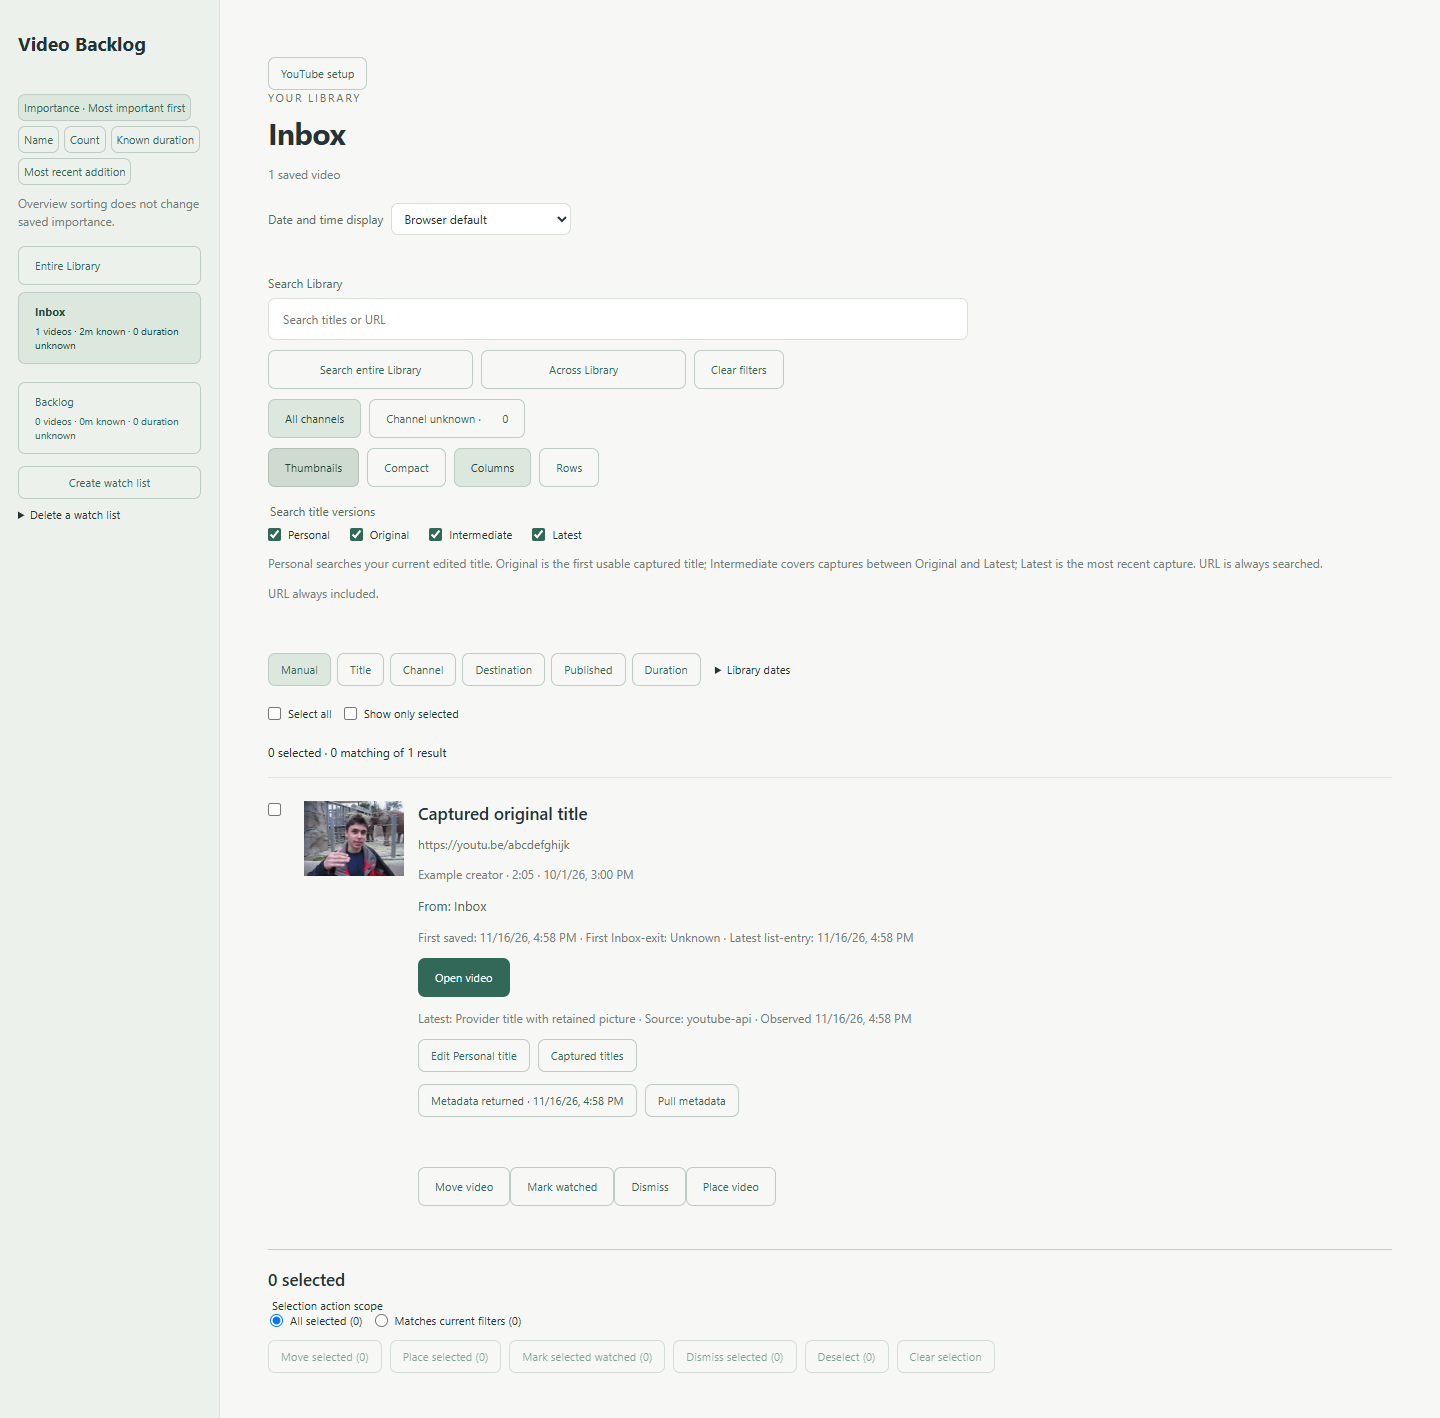
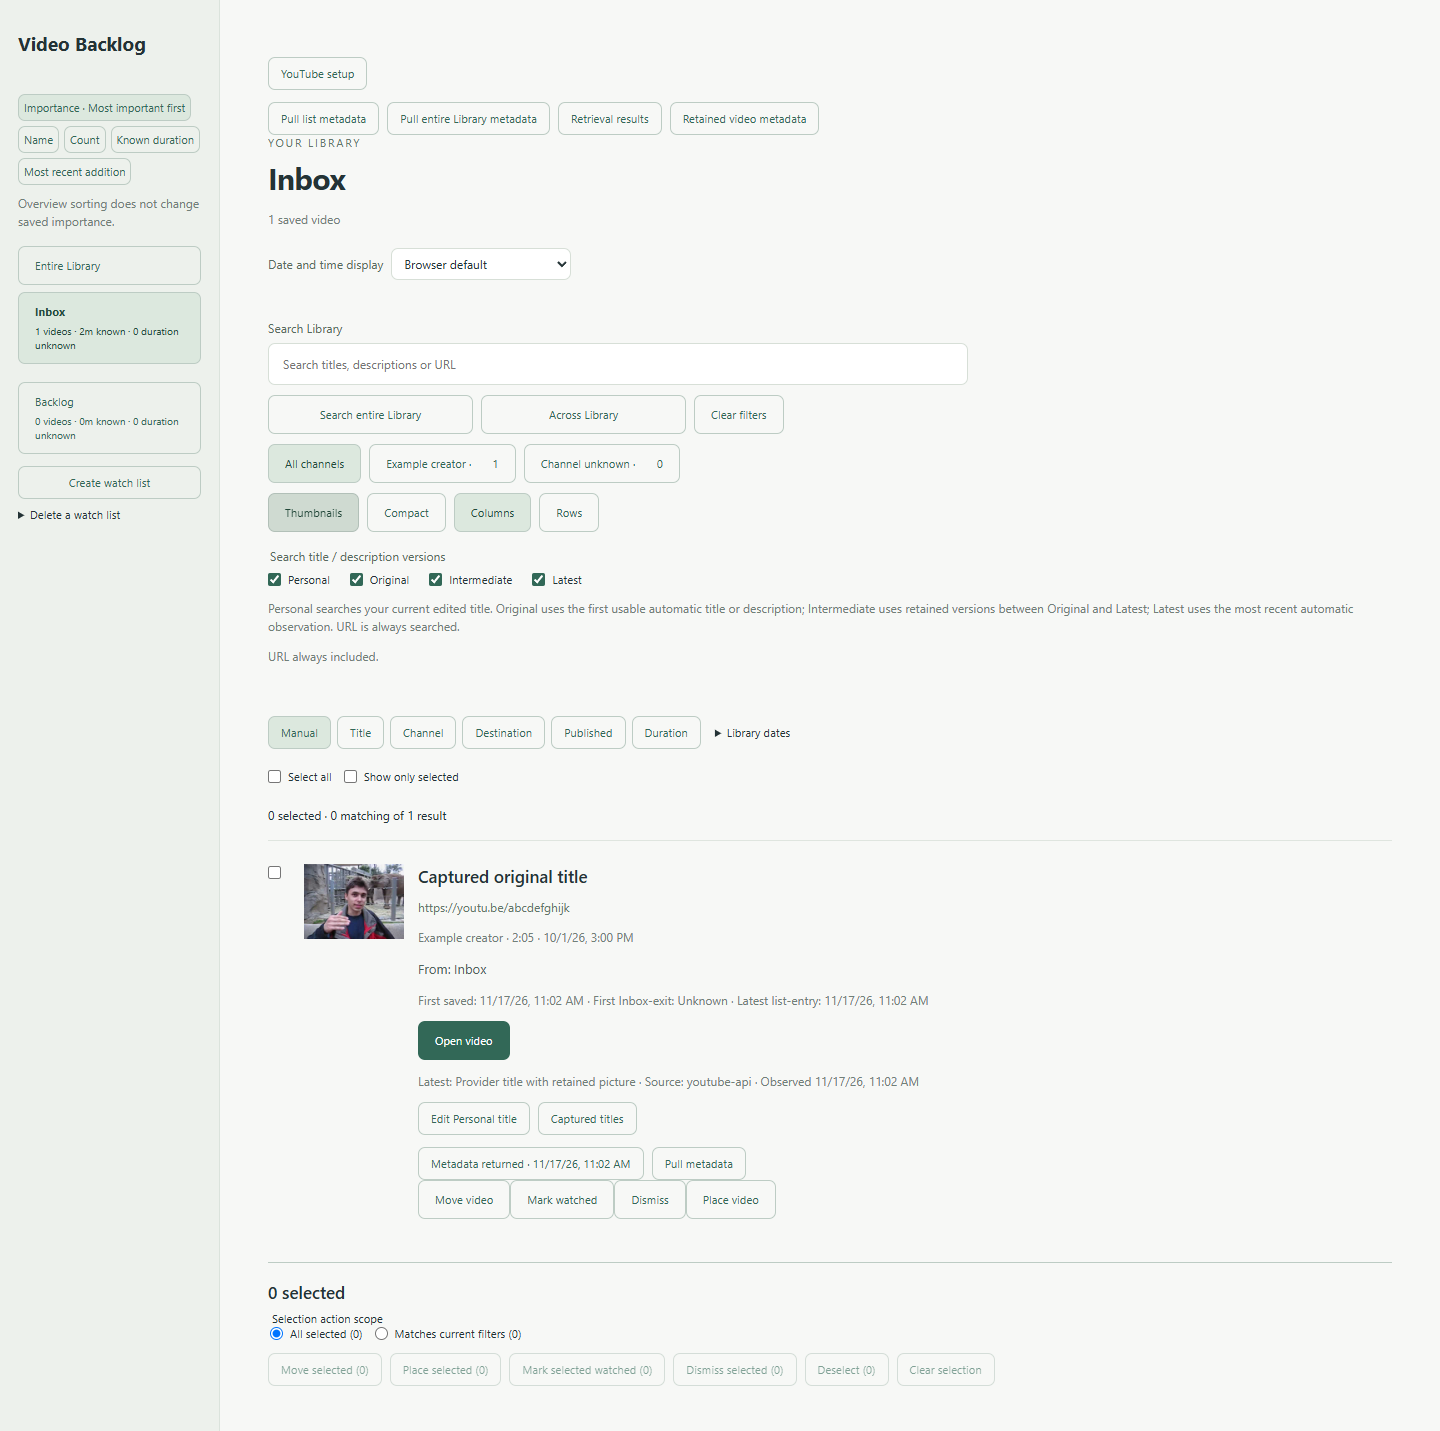
docs: publish final enrichment validation and trial evidence

diff --git a/docs/validation/manual-youtube-enrichment.md b/docs/validation/manual-youtube-enrichment.md
@@ -1,37 +1,76 @@
-# Manual YouTube enrichment validation
+# Manual YouTube enrichment validation
 
-Delivery: [PR #68](https://github.com/Omriy123/youtube-backlog-tracker/pull/68), implementing the [approved manual-first slice](../specs/manual-youtube-enrichment.md) through #65–#67. The [trial guide](../manual-enrichment-guide.md) explains setup and public workflows.
+Validated 2026-11-17 for [PR #68](https://github.com/Omriy123/youtube-backlog-tracker/pull/68), implementing [the approved manual-first slice](../specs/manual-youtube-enrichment.md) through #65–#67. Application and test source: `9dbb8af`. The [trial guide](../manual-enrichment-guide.md) covers setup and supported actions.
 
 ## Evidence boundary
 
-The owner confirmed that no personal YouTube API key is currently available and requested setup instructions. Those instructions are included in the Library and portable build. **Authenticated live YouTube acquisition is pending.** Controlled provider responses establish parser, UI, persistence and failure behavior; they do not establish an authorized API request or live resource availability.
+**Authenticated live YouTube acquisition is pending.** The owner has no personal API key yet and requested setup instructions. Those instructions are in the Library and portable build. Controlled provider responses establish parsing, UI, local persistence and failure behavior; they do not establish an authorized API request or live resource availability. The PR remains draft for that live check.
 
-The recognizable thumbnail fixture was downloaded from a public YouTube image URL and supplied at the controlled HTTP boundary. The extension's real image acquisition/encoding and local persistence code processed it. Fictional titles, descriptions and channels accompany it; this is image-byte/rendering evidence, not metadata acquisition evidence. Fixture provenance is recorded in `tests/fixtures/README.md`.
+The recognizable JPEG fixture was retrieved from a public YouTube thumbnail URL, then supplied at the controlled HTTP boundary. Production image fetching, native decoding, encoding and local persistence process those bytes. Associated titles, descriptions and channels are fictional. Fixture provenance is in `tests/fixtures/README.md`; screenshots contain no owner Library data or credentials.
 
-## Initial single-video checkpoint
+## Final checks
 
-- Baseline before implementation: 40 public-command tests and 117 bundled-Chromium browser tests passed.
-- The first integrated single-video implementation passed 46 public-command tests and an installed desktop-Chrome fixture walkthrough including setup rejection/acceptance, explicit Test connection, retrieval, unchanged original display title, local image bytes, browser-process restart and offline details.
-- Additional checks brought the boundary count to 48 and verified unsupported links skip before setup and no-resource checks preserve prior successful values.
-- Full regression caught empty per-row status regions making the page status ambiguous. Revealing those regions only during deliberate retrieval fixed all 14 targeted installed-Chrome opening/recovery/browsing/enrichment cases. The final integrated run below supersedes this intermediate checkpoint.
-- Early independent core review found corrupt MIME-labelled image bytes accepted as retrieved. Resolution and final verification must be recorded before readiness.
+| Check | Result |
+| --- | --- |
+| Public Library command boundary | 62 passed |
+| Complete installed-Chrome browser suite | 126 passed in the final complete run (4.3 minutes) |
+| Production extension save/find/open/recover | Passed on Chrome 157.0.8103.50 through two process restarts |
+| Focused independent-review fixes | 20 boundary and nine installed-Chrome tests passed |
+| Portable build | Passed; manifest 0.1.0, installation instructions and enrichment guide included |
+| Authenticated YouTube known-ID request | Pending owner API setup |
 
-## Reference comparison
+The complete suite covers ordinary no-key capture/opening/organization, optional setup, retained metadata and image bytes, restart/offline inspection, independent version scopes, historical descriptions and exact-version navigation, missing fields, key replacement, quota/network/no-resource and storage failures, cancellation, image-only retry, interrupted operations, concurrent user actions and recovery. It verifies public workflows and observable retained records rather than private helpers.
 
-References: [accepted Library layout](../design/library-layout.md) and [pinned provider prototype A](../prototypes/provider-availability.md). Actual archived desktop/narrow reference images were inspected alongside rendered extension screenshots. The product retains sidebar/list navigation, existing density and scope controls, original-first row title, retained image target and a compact check-evidence button opening details. The prototype's fictional image blocks are replaced with retained image bytes or an honest missing-image state. No theme/color decision is inferred.
+A preceding run encountered one 30-second close-notice timeout without a diagnostic location. That case passed three subsequent isolated traced runs and the final complete run passed all 126 cases. Earlier integrated failures exposed global notice selectors targeting a prepended hidden status, and unstable test interaction timing. Main-notice scoping, exact-tab URL polling, completed-dialog waits and explicitly visible native drag endpoints corrected those reproductions without weakening their outcome assertions.
 
-The initial desktop screenshot shows the acquired image, original capture title and differing latest provider title. The initial narrow dialog shows last-success/check evidence and source/time. These are intermediate #65 views; final full-version and operation views belong below once integrated.
+The production Chrome restart evidence is retained in [chrome-restarts.json](manual-enrichment/chrome-restarts.json). Automation registers the unpacked extension on each launch in an isolated profile; it does not establish manual installation persistence or provider playback.
 
-![Single-video retained thumbnail and source evidence](manual-enrichment/single-video-desktop.png)
+## Independent review
 
-![Initial narrow metadata details](manual-enrichment/single-video-details-narrow.png)
+### Standards
 
-## Final integrated checks
+One documented-standard finding: selected metadata tabs originally depended on background color. A stable double border now distinguishes selection independently of color and preserves `aria-pressed` and control dimensions. The reviewer inspected desktop/narrow rendered evidence and confirmed resolution. No substantive Fowler heuristic findings remained.
 
-Pending completion of browsing/search and batch workflows, whole-branch review, final checks and packaging. This report does not yet claim PR readiness or all ticket acceptance criteria satisfied.
+### Spec
 
-## Human-test and real-use follow-up
+Three confirmed findings were fixed in one implementer branch and independently rechecked:
 
-Use the exact final portable folder named in the PR handoff and keep the existing extension installed when updating. Copy into the same loaded extension directory, Reload in `chrome://extensions`, then close/reopen Library views. No metadata backups exist in this slice.
+- Empty/whitespace Save key now rejects replacement and preserves the configured key and in-flight work. Explicit Remove key remains separate.
+- Cancelling during a text request permits its returned text to persist, stops a later image request, records the image as cancelled/not attempted and offers image-only retry. An image already in flight retains its truthful outcome.
+- Corrupt MIME-labelled image bytes now fail native decoding before acquisition is accepted, while successful text remains retained and the image can be retried.
 
-[Metadata storage review #35](https://github.com/Omriy123/youtube-backlog-tracker/issues/35) remains unstarted until actual owner use of a qualifying build. No first-use or +28-day date is invented from implementation, fixtures or packaging. Weekly-refresh and backup evidence remains postponed. The separate recovery review is not started by this delivery.
+The final notice-targeting and test-stability patch also received a read-only review with no concrete remaining finding. Review resolution does not substitute for the pending authenticated integration check.
+
+## Rendered reference comparison
+
+References: [accepted Library layout](../design/library-layout.md) and [pinned provider prototype A](../prototypes/provider-availability.md). Actual archived desktop/narrow reference images were compared with the rendered extension.
+
+Sidebar navigation, independent scope controls and existing row actions remain recognizable. Thumbnails use retained image bytes or honest missing-image text; Compact preserves readable channel/date/duration values. Original-first titles stay stable beside a differing latest title. The quiet check-evidence control opens Original/Latest/History with factual source/time and every retained observation. Historical-only excerpts lead to their exact version. Version selection now has a non-color border marker.
+
+Desktop/narrow checks cover both densities, long titles, selected rows, unknown values, metadata/history dialogs and paused/retry results without root horizontal overflow. Keyboard activation and dialog-end controls are exercised. Native drag evidence explicitly keeps both endpoints visible; offscreen scrolling and physical mouse/trackpad comfort remain human checks under the existing interaction follow-up.
+
+![Retained thumbnail and original-first title](manual-enrichment/single-video-desktop.png)
+
+![Narrow metadata details](manual-enrichment/single-video-details-narrow.png)
+
+![Selected Compact row at narrow width](manual-enrichment/metadata-compact-narrow.png)
+
+![Retained history and non-color selected tab](manual-enrichment/metadata-history-desktop.png)
+
+![Desktop batch results](manual-enrichment/batch-results-desktop.png)
+
+![Narrow quota pause with explicit retry](manual-enrichment/batch-paused-narrow.png)
+
+## Representative workloads
+
+Synthetic workloads cover 1,000 active/1,000 total records across 100 channel slots, and 1,900 active/3,000 total records across up to 550 channel slots. They include retained statuses, unsupported links, multiple versions and missing values. Results render 100 targets initially with explicit expansion, while counts account for the whole frozen set.
+
+Measured observations are retained in [metadata browse measurements](manual-enrichment/metadata-scale.json) and [batch snapshot/cancel measurements](manual-enrichment/batch-scale.json). They are individual headless-browser samples, not authenticated provider throughput, storage capacity or latency guarantees. Real-use memory/storage/request evidence remains with the four-week review.
+
+## Human-test handoff
+
+Use the exact portable folder identified in the PR/final handoff. For an existing installation, copy its new `extension/` contents into the same folder already loaded in Chrome, choose Reload in `chrome://extensions`, then close/reopen Library views. Keep the extension installed and preserve its storage. This slice has no metadata backup/export, automatic refresh or clearing control.
+
+Try no-key saving first. Then create a personal key following YouTube setup, Test connection, pull one real saved video, inspect metadata/history, and reopen offline. Try list/Library retrieval, cancellation and explicit retry. Report visible versus expected results without including the key.
+
+[Metadata review #35](https://github.com/Omriy123/youtube-backlog-tracker/issues/35) remains unstarted until actual owner use of a qualifying build. No first-use or +28-day date is inferred from fixtures, packaging or issue closure. Weekly-refresh and backup evidence awaits later delivery; the separate recovery review is not started here.

diff --git a/docs/manual-enrichment-guide.md b/docs/manual-enrichment-guide.md
@@ -25,6 +25,8 @@ Choose **Pull list metadata** for the selected list's members at invocation, or 
 
 Use **Retrieval results** to inspect requested, retrieved, no-result, failed, skipped and unfinished records. Image failures have their own explanation. **Cancel further retrieval** retains completed results; **Retry unfinished retrieval** addresses unsuccessful or unfinished work. An image-only retry does not repeat a successful text lookup.
 
+If cancellation happens during a text request, returned text can still be retained while its image is reported as not attempted/cancelled. Retry unfinished retrieval or **Retry thumbnail only** acquires that image without repeating the successful text request. An image already in flight may finish and is reported truthfully.
+
 After an interruption or browser restart, inspect the retained results and retry deliberately. Restart and quota recovery do not resume requests automatically. Ordinary Library actions remain available during retrieval.
 
 ## Local data and feedback
